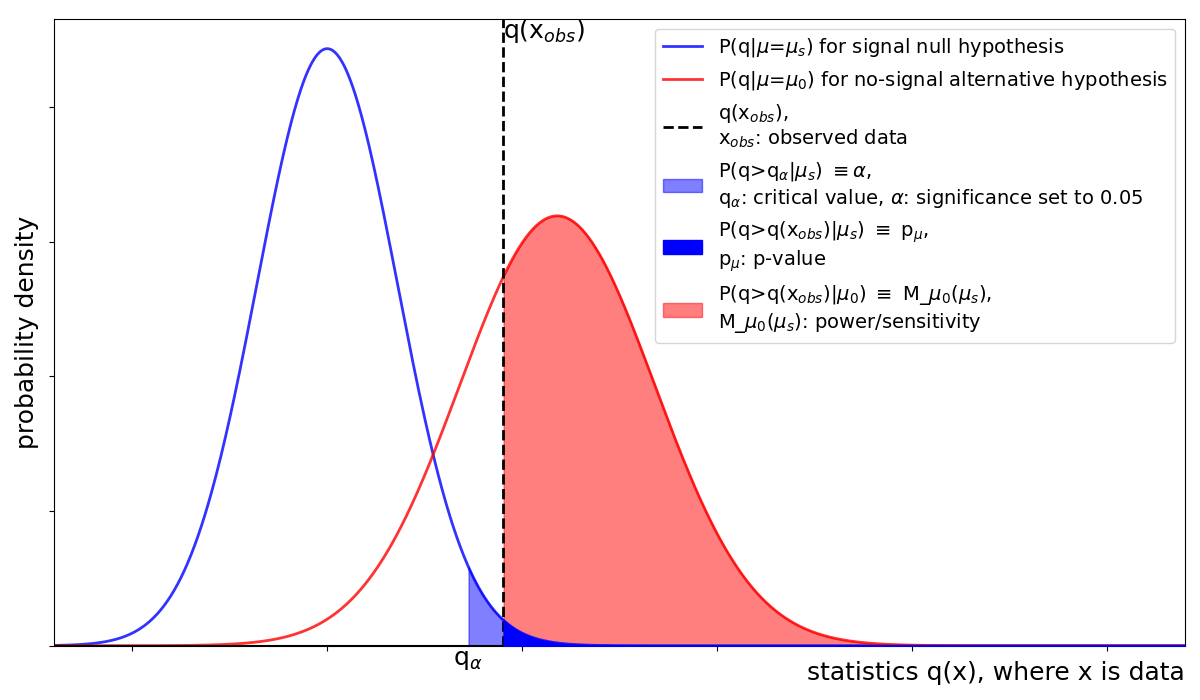
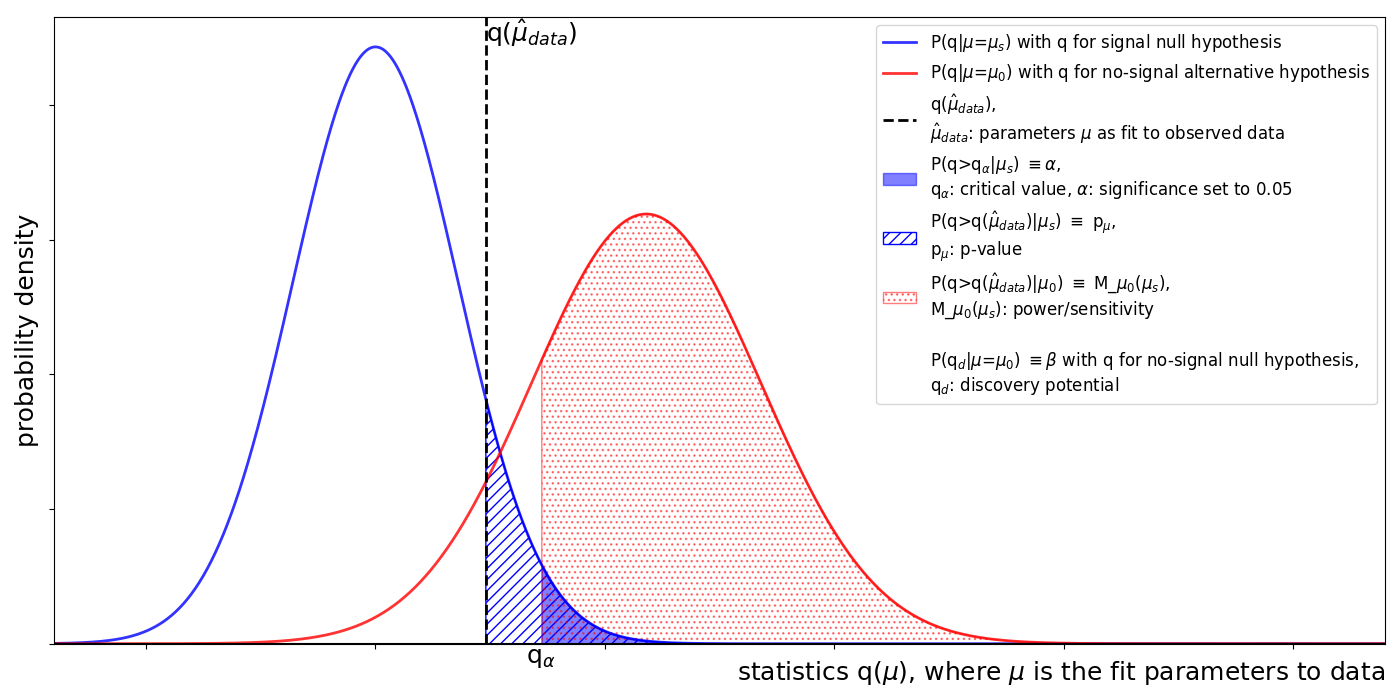
- several correction + hatch for plots

diff --git a/hypoTestingDef.py b/hypoTestingDef.py
@@ -14,14 +14,14 @@ from scipy import optimize
 from scipy import stats
 from tqdm import tqdm
 
-##########################################################################################
+###########################################################################################
 def main():
     verbosity = 1
     rangeX = [-7, 22]
     plotRes = 1000
     muSigNull = [0.0, 1.8]
     muSigAlt  = [5.9, 2.5]
-    dataLoc = 4.5
+    dataLoc = 2.4
 
     qVal     = np.linspace(*rangeX, plotRes)
     baseline = qVal*0.0
@@ -31,9 +31,9 @@ def main():
     qAlpha = muSigNull[0]+2*muSigNull[1]    #2 sigma-significance
     qVal_CRsel = (qVal > qAlpha)            #CR for critical region
     qVal_PVsel = (qVal > dataLoc)           #PV for p-value
-    qVal_PSsel = (qVal > dataLoc)           #PS for power/sensitivity
+    qVal_PSsel = (qVal > qAlpha)           #PS for power/sensitivity
 #plots
-    fig = plt.figure(figsize=(12, 7))
+    fig = plt.figure(figsize=(14, 7))
     gs = gridspec.GridSpec(1, 1)
     ax0 = fig.add_subplot(gs[0])
     
@@ -43,35 +43,39 @@ def main():
     
     ax0.get_xaxis().set_ticklabels([])
     ax0.get_yaxis().set_ticklabels([])
-    ax0.set_xlabel("statistics q(x), where x is data", fontsize=18,\
-                   horizontalalignment='right', x=1.0)
+    ax0.set_xlabel("statistics q($\mu$), where $\mu$ is the fit parameters to data",\
+                   fontsize=18, horizontalalignment='right', x=1.0)
     ax0.set_ylabel("probability density", fontsize=18)
     ax0.set_xlim(*rangeX)
     ax0.set_ylim(bottom=0.0)    
 
     dataLine = ax0.axvline(x=dataLoc, ymin=0.0, ymax=1.0, color="black", linewidth=2,\
                            linestyle="--")
-    CRfill = ax0.fill_between(qVal[qVal_CRsel], baseline[qVal_CRsel],\
-                              gausNull[qVal_CRsel], color='blue', alpha=0.5)
-    PVFill = ax0.fill_between(qVal[qVal_PVsel], baseline[qVal_PVsel],\
-                              gausNull[qVal_PVsel], color='blue', zorder=5)
-    PSfill = ax0.fill_between(qVal[qVal_PSsel], baseline[qVal_PSsel],\
-                              gausAlt[qVal_PSsel], color='red', alpha=0.5) 
-    plotList = [[nullDist, altDist, dataLine, CRfill, PVFill, PSfill], \
-                ["P(q|$\mu$=$\mu_s$) for signal null hypothesis",\
-                 "P(q|$\mu$=$\mu_0$) for no-signal alternative hypothesis", 
-                 "q(x$_{obs}$),\nx$_{obs}$: observed data",
+    CRfill = ax0.fill_between(qVal[qVal_CRsel], baseline[qVal_CRsel], gausNull[qVal_CRsel],\
+                              color="blue", alpha=0.5, zorder=0)
+    PVFill = ax0.fill_between(qVal[qVal_PVsel], baseline[qVal_PVsel], gausNull[qVal_PVsel],\
+                              color="none", hatch="///", edgecolor='blue')
+    PSfill = ax0.fill_between(qVal[qVal_PSsel], baseline[qVal_PSsel], gausAlt[qVal_PSsel],\
+                              color="none", alpha=0.5, hatch="...", edgecolor='red') 
+    blank = ax0.axvline(x=dataLoc, ymin=0.0, ymax=1.0, color="black", alpha=0.0)
+    plotList = [[nullDist, altDist, dataLine, CRfill, PVFill, PSfill, blank], \
+                ["P(q|$\mu$=$\mu_s$) with q for signal null hypothesis",\
+                 "P(q|$\mu$=$\mu_0$) with q for no-signal alternative hypothesis", 
+                 "q($\hat{\mu}_{data}$),\n"+\
+                 "$\hat{\mu}_{data}$: parameters $\mu$ as fit to observed data",
                  "P(q>q$_\\alpha$|$\mu_s$) $\equiv \\alpha$,\n"+\
                  "q$_\\alpha$: critical value, $\\alpha$: significance set to 0.05",\
-                 "P(q>q(x$_{obs}$)|$\mu_s$) $\equiv$ p$_\mu$,\np$_\mu$: p-value",\
-                 "P(q>q(x$_{obs}$)|$\mu_0$) $\equiv$ M_$\mu_0$($\mu_s$),\n"+\
-                 "M_$\mu_0$($\mu_s$): power/sensitivity"]]
-    legObj = ax0.legend(*plotList, loc="upper right", fontsize=14)
+                 "P(q>q($\hat{\mu}_{data}$)|$\mu_s$) $\equiv$ p$_\mu$,\np$_\mu$: p-value",\
+                 "P(q>q($\hat{\mu}_{data}$)|$\mu_0$) $\equiv$ M_$\mu_0$($\mu_s$),\n"+\
+                 "M_$\mu_0$($\mu_s$): power/sensitivity",\
+                 "\nP(q$_d$|$\mu$=$\mu_0$) $\equiv \\beta$ with q for "+\
+                 "no-signal null hypothesis,\nq$_d$: discovery potential"]]
+    legObj = ax0.legend(*plotList, loc="upper right", fontsize=12)
 
     ylim = ax0.get_ylim()
     ax0.text(qAlpha,  ylim[0]-0.03*(ylim[1]-ylim[0]), "q$_\\alpha$", fontsize=18,\
              ha='center')
-    ax0.text(dataLoc, ylim[1]-0.03*(ylim[1]-ylim[0]), "q(x$_{obs}$)", fontsize=18)
+    ax0.text(dataLoc, ylim[1]-0.04*(ylim[1]-ylim[0]), "q($\hat{\mu}_{data}$)", fontsize=18)
 #save plots
     exepath = os.path.dirname(os.path.abspath(__file__))
     filenameFig = exepath + "/hypoTestingDef.png"
@@ -79,7 +83,7 @@ def main():
     plt.savefig(filenameFig)
     if verbosity >= 1: print("Creating the following files:\n" + filenameFig)
 
-#########################################################################################
+#################################################@#########################################
 TOLERANCE = pow(10.0, -10)
 SNUMBER   = pow(10.0, -124)
 def gaussian(mu, sig, x):
@@ -88,7 +92,7 @@ def gaussian(mu, sig, x):
          *(1.0/(sig*np.sqrt(2.0*np.pi)))
     vals[vals < SNUMBER] = SNUMBER
     return vals
-#######################################################################################
+###########################################################################################
 if __name__ == "__main__":
     print("\n####################################################################Head")
     main()
